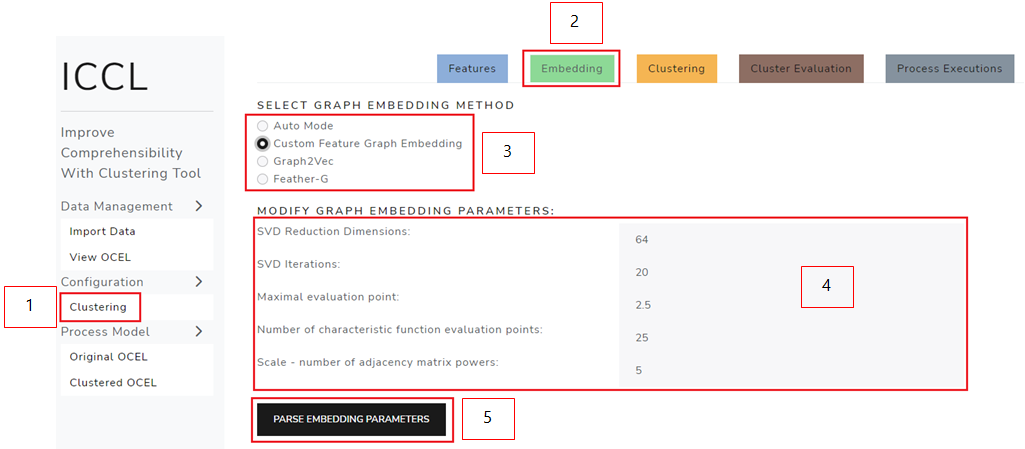
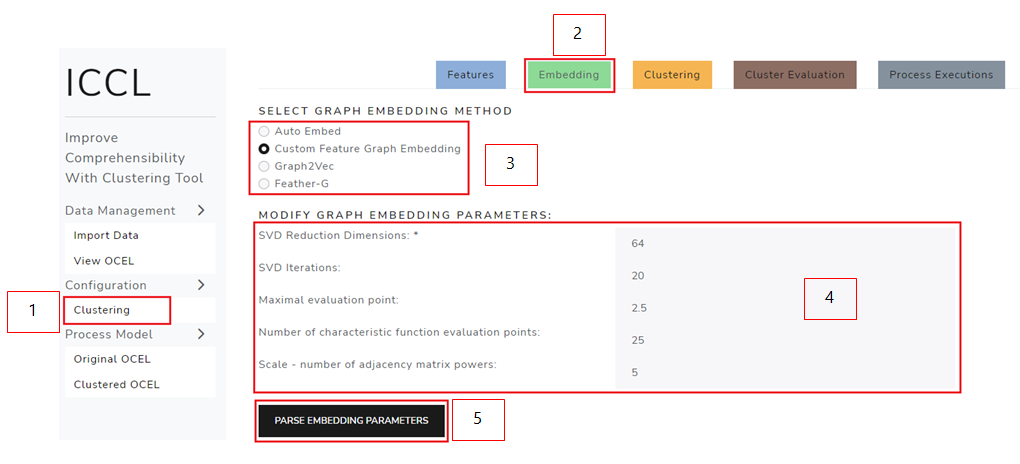
changed img for graph embedding

diff --git a/user_manual.md b/user_manual.md
@@ -131,7 +131,7 @@ To specify the graph embedding technique, follow those steps:
 5. click the PARSE EMBEDDING PARAMETERS button
 
 ### Clustering
-After the graph embedding is created, you can cluster the process executions. To do so, you have to specify a clustering technique. Furthermore, you can adjust the algorithm's parameters or use the automatic clustering mode. 
+After the graph embedding is created, you can cluster the process executions. To do so, you have to specify a clustering technique. Furthermore, you can adjust the algorithm's parameters or use the automatic clustering mode. Please see [Clustering Techniques](#clustering-techniques) for more information about the clustering algorithms.
 
 ![Clustering_Configuration.png](assets%2FClustering_Configuration.png)
 
@@ -153,7 +153,7 @@ After the clustering was successfully executed, the following shows up:
 In the table 1, you can see the resulting clusters and the number of process executions that belong to the cluster ID. If you click the button 2, you get forwarded to the process discovery page.
 
 ### Cluster Evaluation
-If you want to cluster the process executions using K-Means or Hierarchical Clustering, you might not know which number of clusters is suitable. On the other hand, if you apply DBscan, where you don't have to specify the number of clusters, you must specify the epsilon parameter. To give you more insight into the effect of changing those parameters, you can try the cluster evaluation analysis that is included in ICCL. 
+If you want to cluster the process executions using K-Means or Hierarchical Clustering, you might not know which number of clusters is suitable. On the other hand, if you apply DBscan, where you don't have to specify the number of clusters, you must specify the epsilon parameter. To give you more insight into the effect of changing those parameters, you can try the cluster evaluation analysis that is included in ICCL. You can get more information about the scores that are used in [Cluster Evaluation](#cluster-evaluation).
 
 Note: before launching the cluster evaluation, you have to parse the features and graph embedding parameters.
 
@@ -268,12 +268,12 @@ A process execution is a set of events of connected objects and resembles the ca
 
 ### Graph Embedding Methods
 
-* **Auto Embed**: In the automatic mode, we try to find the best graph embedding method with corresponding parameters for the imported OCEL. Experimentally we have found out, that the Custom Feature Graph Embedding method that uses FeatherNode Embeddings and aggregates them for the representation of a graph, works the best. Note that it is also the only method that is able to embed an arbitrary amount of features. The most crucial parameter for this method is the number of dimensions. Hereby, we have to have enough dimensions to express the complexity of the graphs and features. On the other hand, we want to reduce the number of dimensions as much as possible to improve the computation effort. Especially, the following clustering runs significantly faster on smaller dimensions. 
+* **Auto Embed**: In the automatic mode, we try to find the best graph embedding method with corresponding parameters for the imported OCEL. Experimentally we have found out that the Custom Feature Graph Embedding method that uses FeatherNode Embeddings and aggregates them for the representation of a graph works the best. Note that it is also the only method that is able to embed an arbitrary amount of features. The most crucial parameter for this method is the number of dimensions. Hereby, we have to have enough dimensions to express the complexity of the graphs and features. On the other hand, we want to reduce the number of dimensions as much as possible to improve the computation effort. Especially, the clustering that follows runs significantly faster on smaller dimensions. 
 We start with an initial value of 500 and then try to reduce it by comparing the normalized embedding loss (https://doi.org/10.1038/s41467-021-23795-5). However, note that we cannot have less dimensions than features. This is required by FeatherNode.
 
 *  **Custom Feature Graph Embedding**: especially designed for ICCL. The algorithm first creates a node embedding via FeatherNode which uses characteristic functions of node features with random walk weights to describe node neighborhoods. In the second step, the node embeddings are averaged over each dimension, resulting in a vectorized embedding of the graph. Focusses **features**, the structure of the process execution graphs is only implicitly considered. Check out the [karateclub documentation](https://karateclub.readthedocs.io/en/latest/_modules/karateclub/node_embedding/attributed/feathernode.html) for more information about the FeatherNode parameters that can be configured. 
 
-Note: We cannot run the algorithm when we have less dimensions than features for each node. 
+	Note: We cannot run the algorithm when we have less dimensions than features for each node. 
 
 *  **Graph2Vec**: first identifies subgraphs sourrounding each node in the feature graphs. By means of the Weisfeiler-Lehman’s algorithm, the subgraphs are considered as the vocabulary for a doc2vec SkipGram model. Since the graph’s structure is captured within the algorithm, feature graphs that are similar in structure will be close in the embedding space. Focusses the **graph structure** and additionally allows one feature per node. Check out the [karateclub documentation](https://karateclub.readthedocs.io/en/latest/_modules/karateclub/graph_embedding/graph2vec.html) for more information about the parameters that can be configured. 
 
